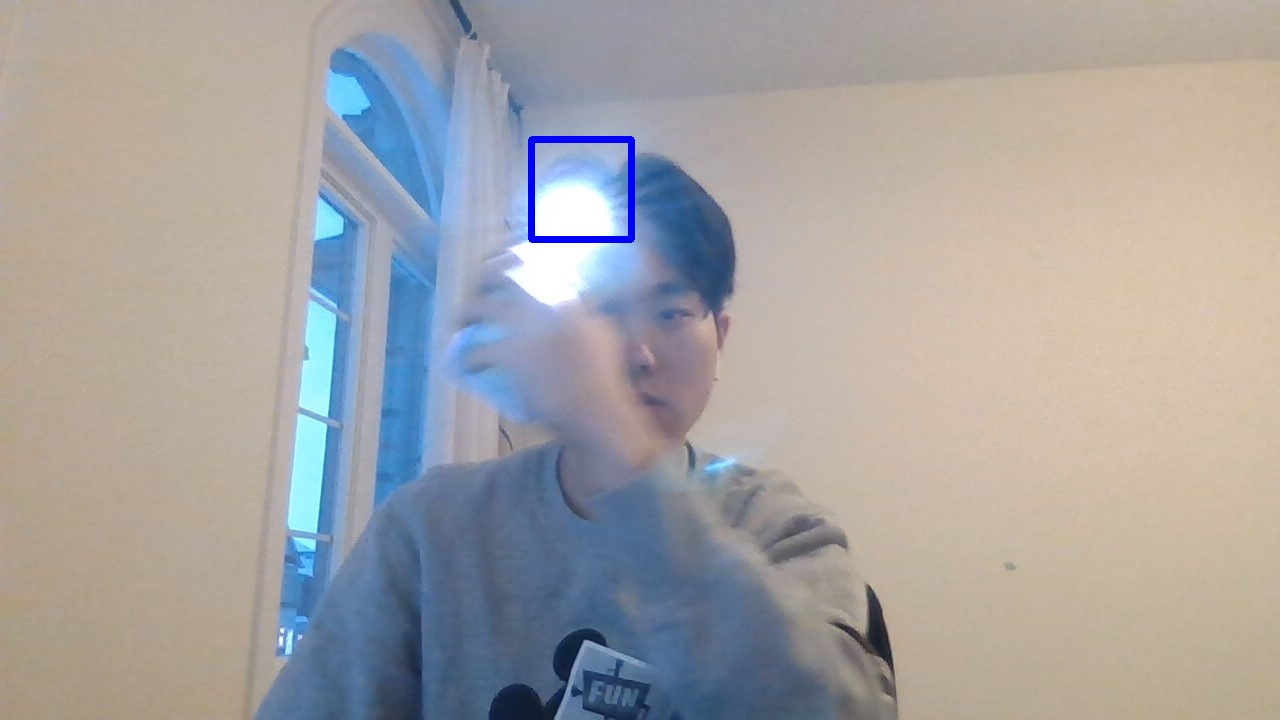
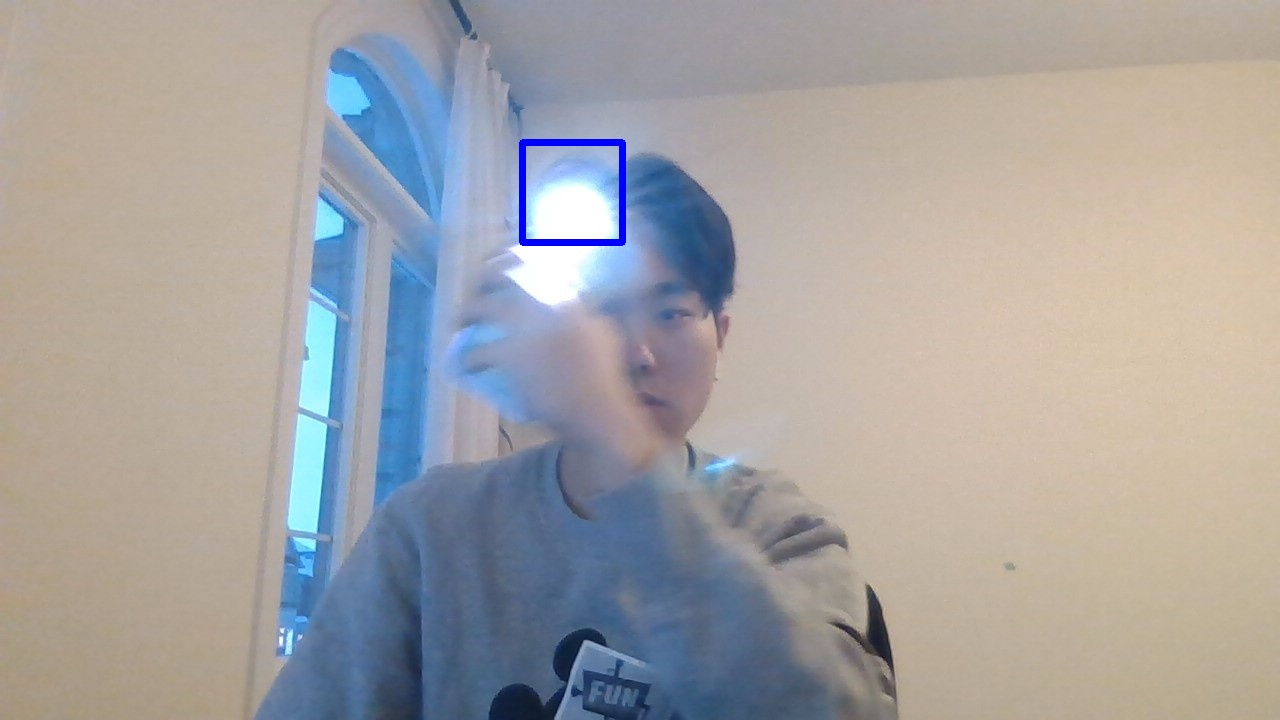
fixed the issue where the cv2 would detct background light source as the brightest point

Changed region(s): [[0.4062, 0.1833, 0.5, 0.3667]]

diff --git a/openCV_light_detection/brightest_point_detection.py b/openCV_light_detection/brightest_point_detection.py
@@ -3,7 +3,7 @@ import matplotlib.pyplot as plt
 import numpy as np
 
 # read in the images
-img_src = "/Users/petemango/SIDE PROJECTS/beatSaberProject/openCV_light_detection/images/2.jpg" #i cant get local open to work wtf
+img_src = "/Users/petemango/SIDE PROJECTS/beatSaberProject/openCV_light_detection/images/3.jpg" #i cant get local open to work wtf
 img_main = cv2.imread(img_src)
 img_rgb = np.copy(img_main)
 
@@ -11,9 +11,12 @@ img_rgb = np.copy(img_main)
 img_grey = np.copy(img_main)
 img_grey = cv2.cvtColor(img_grey, cv2.COLOR_BGR2GRAY)
 
+# apply median blur
+median_blur = cv2.medianBlur(img_grey, 21)
+
 # find the max brightness x and y values
-max_x = cv2.minMaxLoc(img_grey)[3][0]
-max_y = cv2.minMaxLoc(img_grey)[3][1]
+max_x = cv2.minMaxLoc(median_blur)[3][0]
+max_y = cv2.minMaxLoc(median_blur)[3][1]
 
 # make a square of length 50 to display the brightest spot
 s = 50
@@ -31,4 +34,4 @@ plt.imshow(brightest_box, cmap="gray")
 plt.show()  
 
 # save the image to the file
-cv2.imwrite("/Users/petemango/SIDE PROJECTS/beatSaberProject/openCV_light_detection/processed_images/2.jpg", brightest_box)
+# cv2.imwrite("/Users/petemango/SIDE PROJECTS/beatSaberProject/openCV_light_detection/processed_images/3.jpg", brightest_box)
